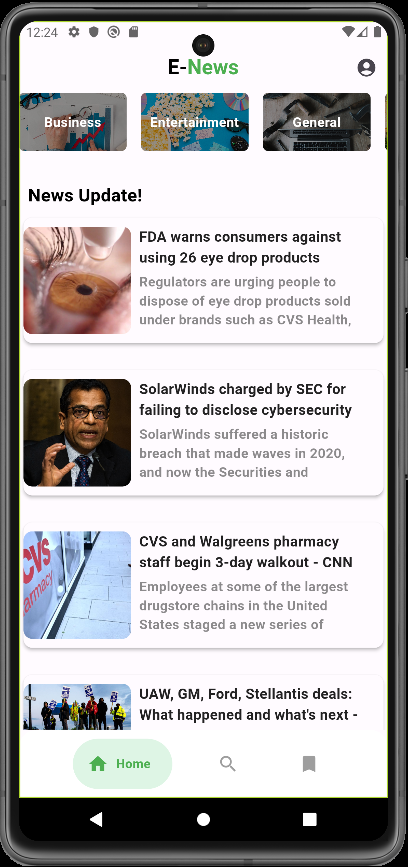
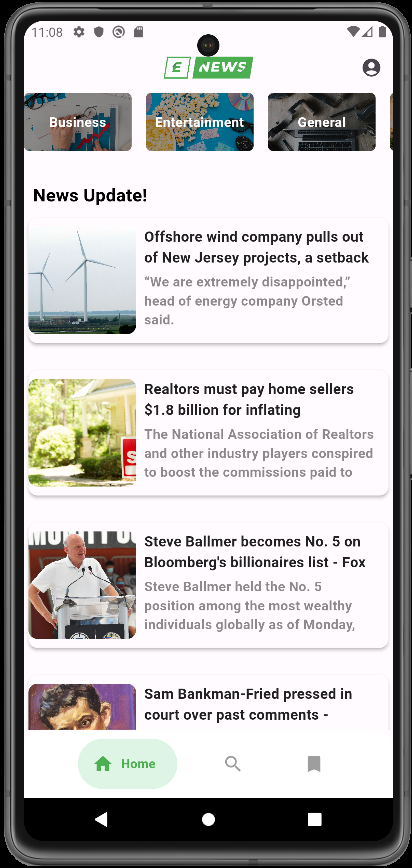
Update Code + Screenshot

diff --git a/Project/miniproject/lib/Screen/Component/news_view.dart b/Project/miniproject/lib/Screen/Component/news_view.dart
@@ -68,26 +68,12 @@ class _NewsViewState extends State<NewsView> {
         child: Scaffold(
           appBar: AppBar(
             centerTitle: true,
-            title: RichText(
-              text: const TextSpan(
-                children: [
-                  TextSpan(
-                    text: "E-",
-                    style: TextStyle(
-                      color: Colors.black,
-                      fontSize: 23,
-                      fontWeight: FontWeight.bold,
-                    ),
-                  ),
-                  TextSpan(
-                    text: "News",
-                    style: TextStyle(
-                      color: Colors.green,
-                      fontSize: 23,
-                      fontWeight: FontWeight.bold,
-                    ),
-                  ),
-                ],
+            title: Container(
+              width: 100,
+              height: 40,
+              child: Image.asset(
+                'assets/images/logo.png',
+                fit: BoxFit.contain,
               ),
             ),
             actions: [

diff --git a/Project/miniproject/lib/Screen/Home/home.dart b/Project/miniproject/lib/Screen/Home/home.dart
@@ -181,26 +181,12 @@ class _HomePageState extends State<HomePage> {
     return Scaffold(
       appBar: AppBar(
         centerTitle: true,
-        title: RichText(
-          text: const TextSpan(
-            children: [
-              TextSpan(
-                text: "E-",
-                style: TextStyle(
-                  color: Colors.black,
-                  fontSize: 23,
-                  fontWeight: FontWeight.bold,
-                ),
-              ),
-              TextSpan(
-                text: "News",
-                style: TextStyle(
-                  color: Colors.green,
-                  fontSize: 23,
-                  fontWeight: FontWeight.bold,
-                ),
-              ),
-            ],
+        title: Container(
+          width: 100,
+          height: 40,
+          child: Image.asset(
+            'assets/images/logo.png',
+            fit: BoxFit.contain,
           ),
         ),
         actions: [
